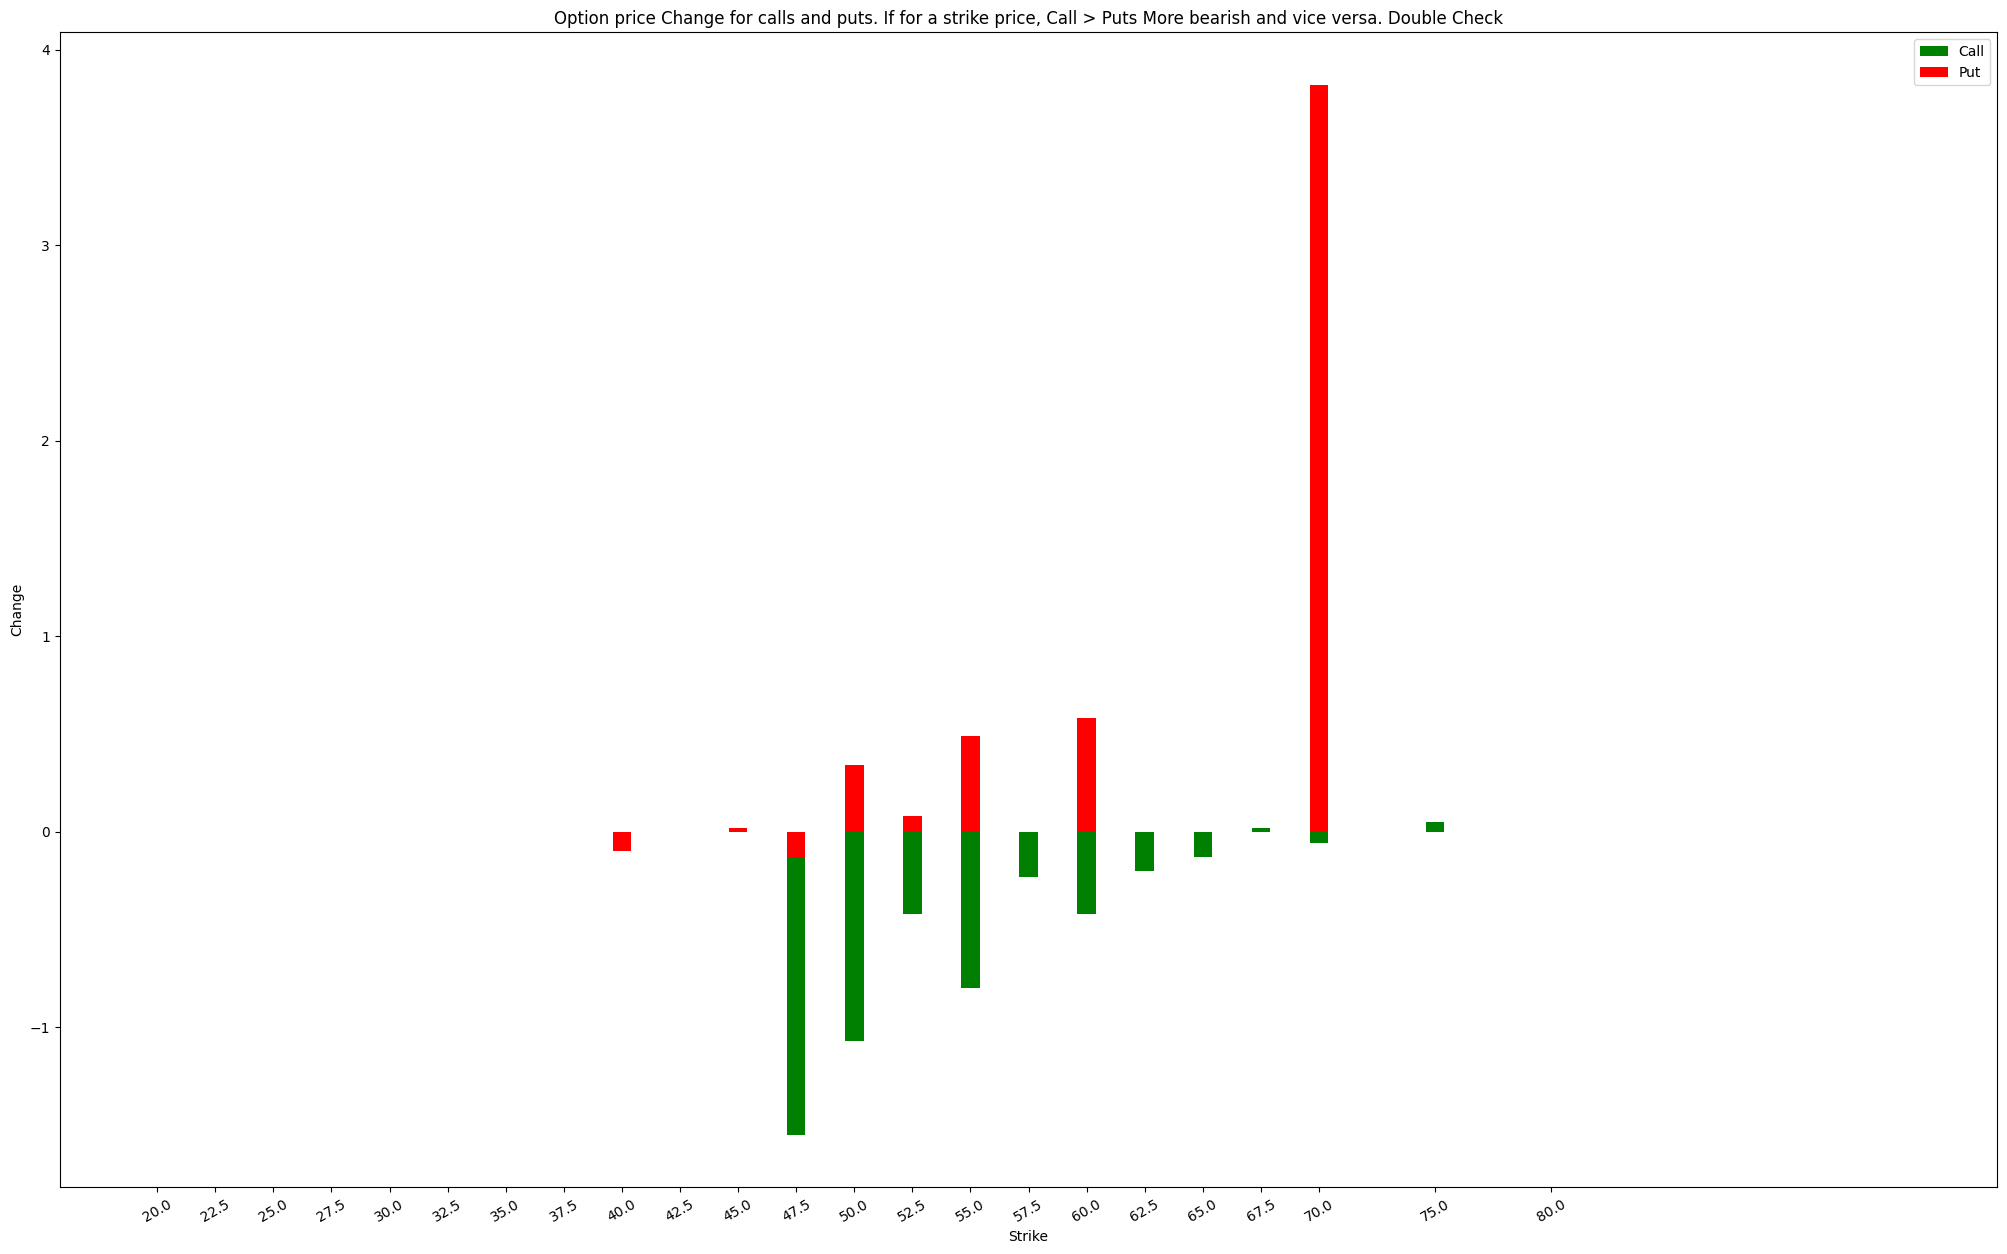
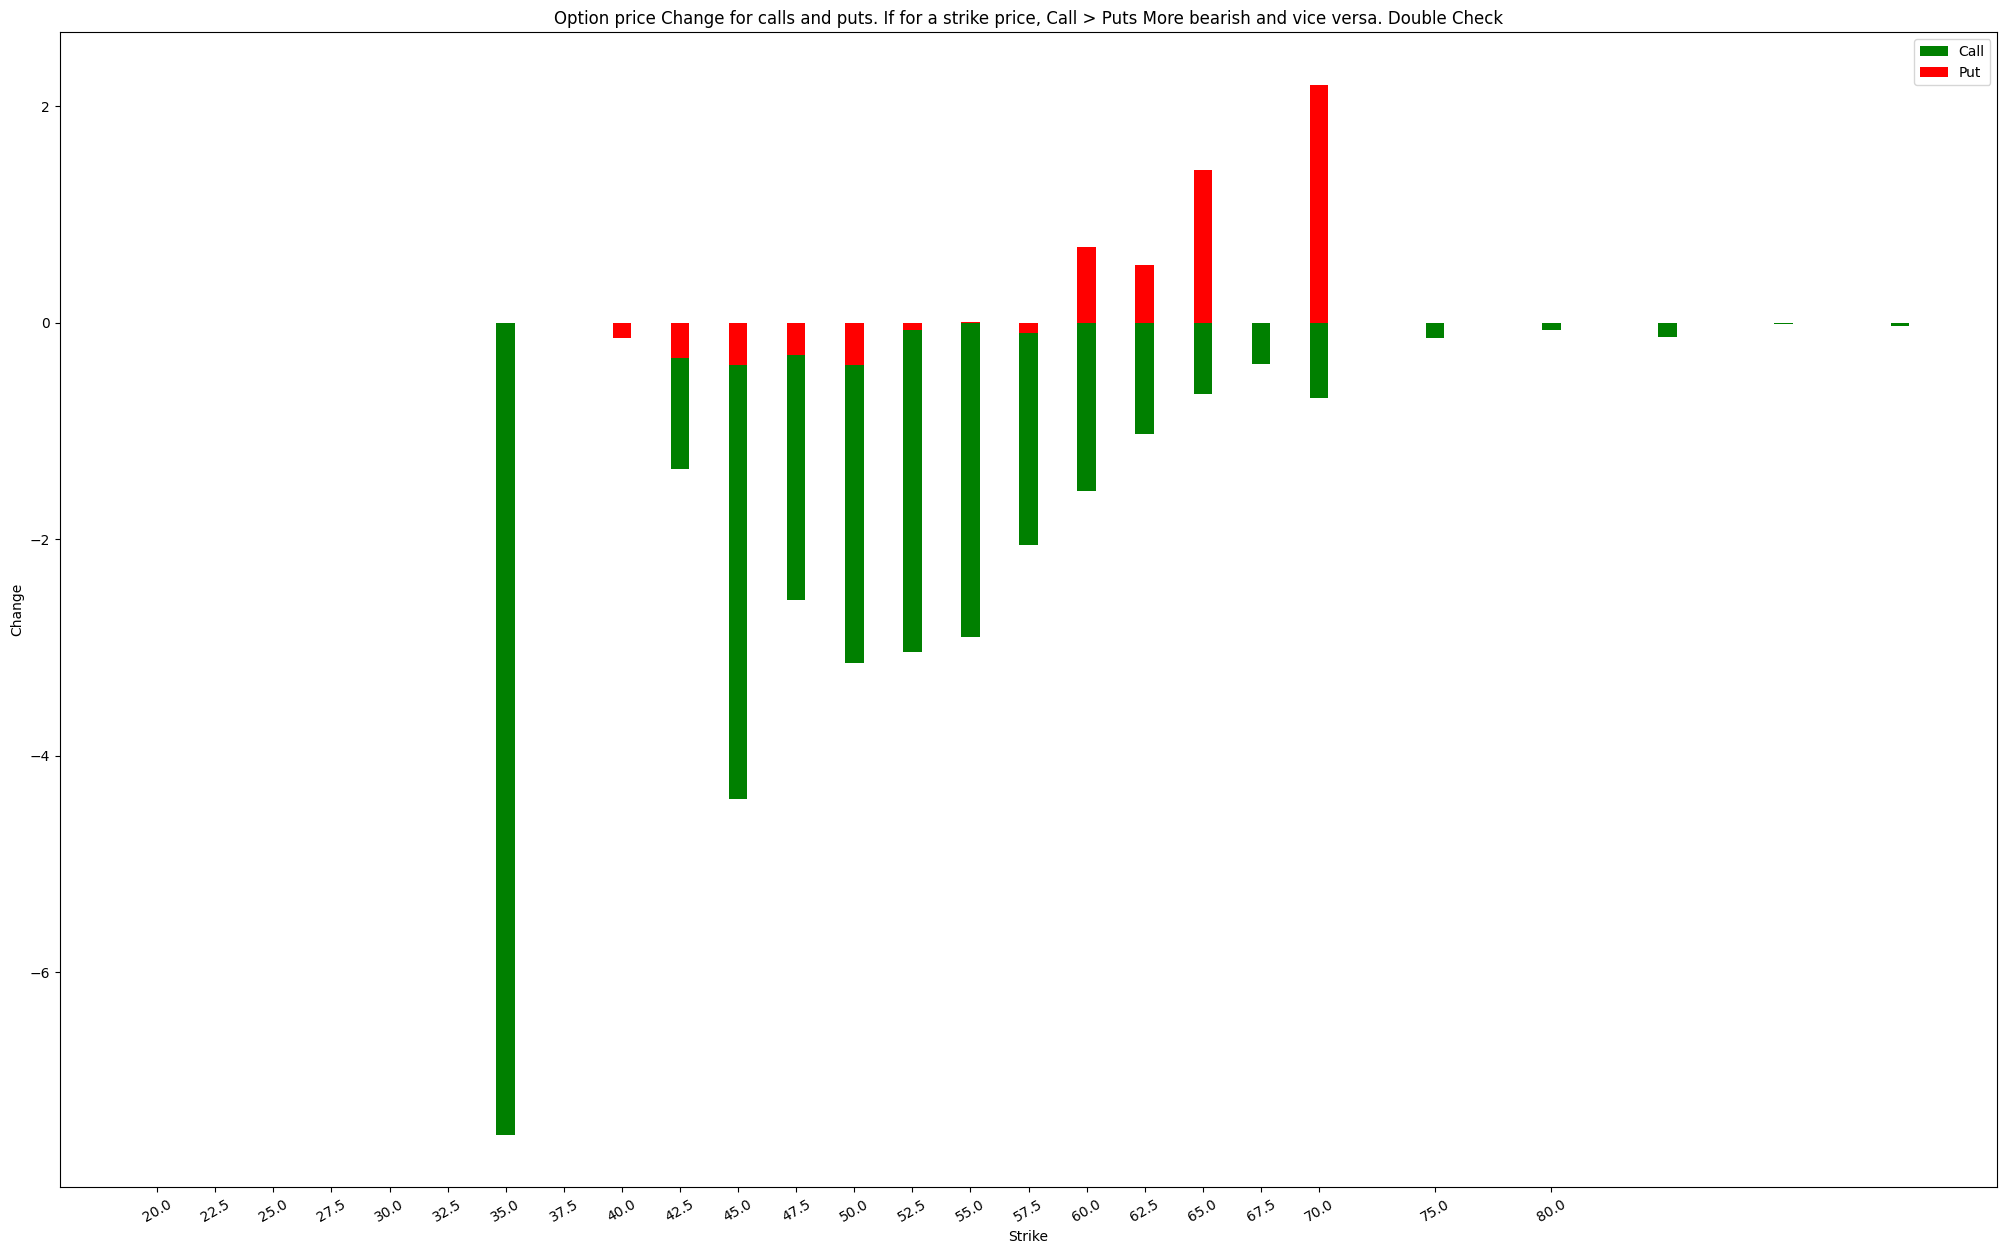
minor fixes

diff --git a/app.py b/app.py
@@ -23,7 +23,7 @@ n_day_hist_volatility_list = [10,20,50,100,180]
 
 # List of stocks to be evaluated
 # later on this list needs to be populated from the screener
-ranked_stocks = ["DOCU"]
+ranked_stocks = ["MARA"]
 
 
 
